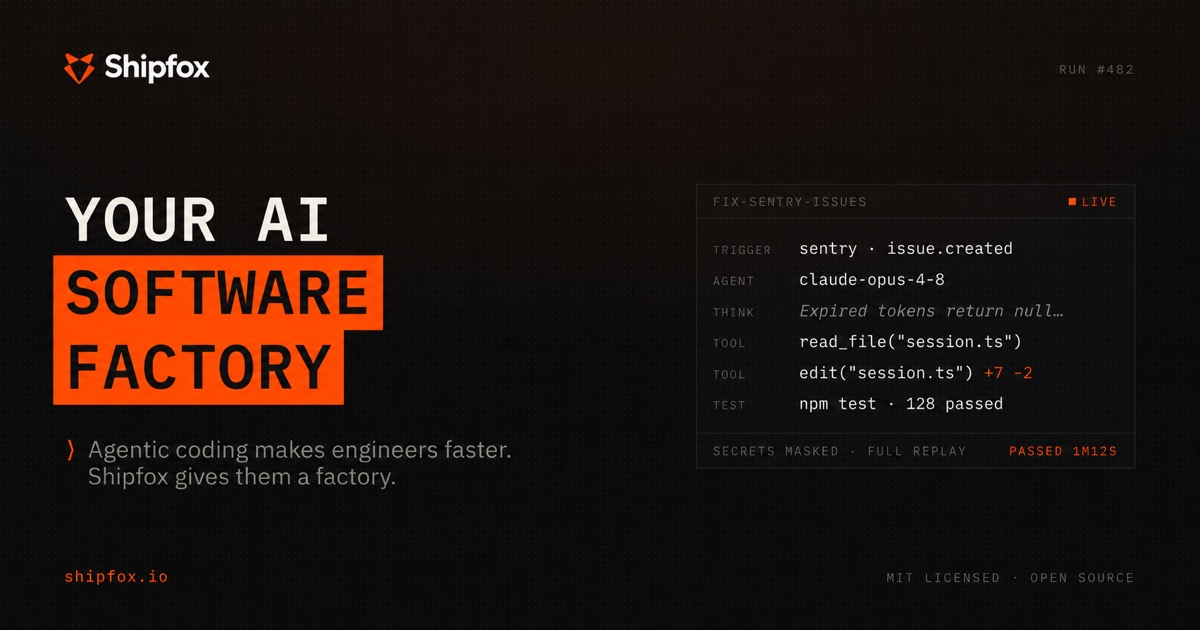
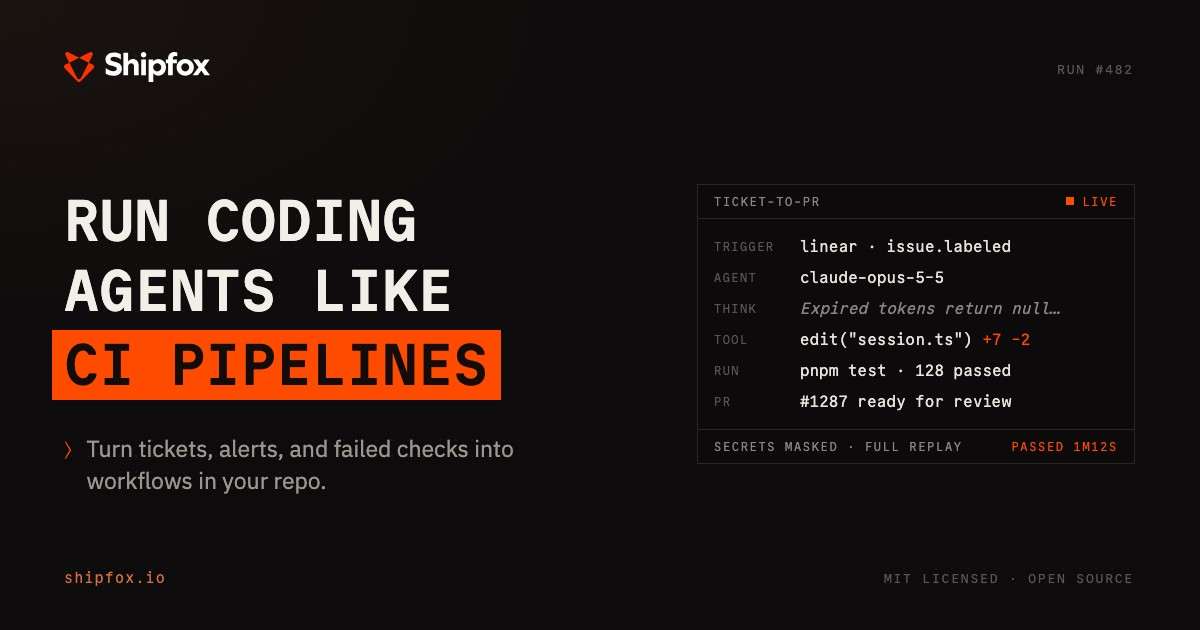
Update the Open Graph image to the new positioning

diff --git a/apps/client/index.html b/apps/client/index.html
@@ -7,10 +7,10 @@
     <meta property="og:image:type" content="image/jpeg" />
     <meta property="og:image:width" content="1200" />
     <meta property="og:image:height" content="630" />
-    <meta property="og:image:alt" content="Shipfox: Your AI Software Factory" />
+    <meta property="og:image:alt" content="Shipfox: Run coding agents like CI pipelines" />
     <meta name="twitter:card" content="summary_large_image" />
     <meta name="twitter:image" content="https://app.shipfox.io/shipfox-og.jpg" />
-    <meta name="twitter:image:alt" content="Shipfox: Your AI Software Factory" />
+    <meta name="twitter:image:alt" content="Shipfox: Run coding agents like CI pipelines" />
     <!-- Runtime config, set before the app bundle loads. Served from public/ in
          dev; the Docker image rewrites it from environment at container start. -->
     <script src="/config.js"></script>

diff --git a/apps/docs/src/lib/page-metadata.ts b/apps/docs/src/lib/page-metadata.ts
@@ -36,7 +36,7 @@ export function buildPageMetadata(
           url: image,
           width: 1200,
           height: 630,
-          alt: 'Shipfox: Your AI Software Factory',
+          alt: 'Shipfox: Run coding agents like CI pipelines',
         },
       ],
       siteName: 'Shipfox',
@@ -50,7 +50,7 @@ export function buildPageMetadata(
           url: image,
           width: 1200,
           height: 630,
-          alt: 'Shipfox: Your AI Software Factory',
+          alt: 'Shipfox: Run coding agents like CI pipelines',
         },
       ],
     },

diff --git a/README.md b/README.md
@@ -1,5 +1,5 @@
 <div align="center">
-  <img width="1200" height="630" alt="Shipfox: Your AI Software Factory" src="apps/docs/public/shipfox-og.jpg" />
+  <img width="1200" height="630" alt="Shipfox: Run coding agents like CI pipelines" src="apps/docs/public/shipfox-og.jpg" />
 </div>
 
 <p align="center">
